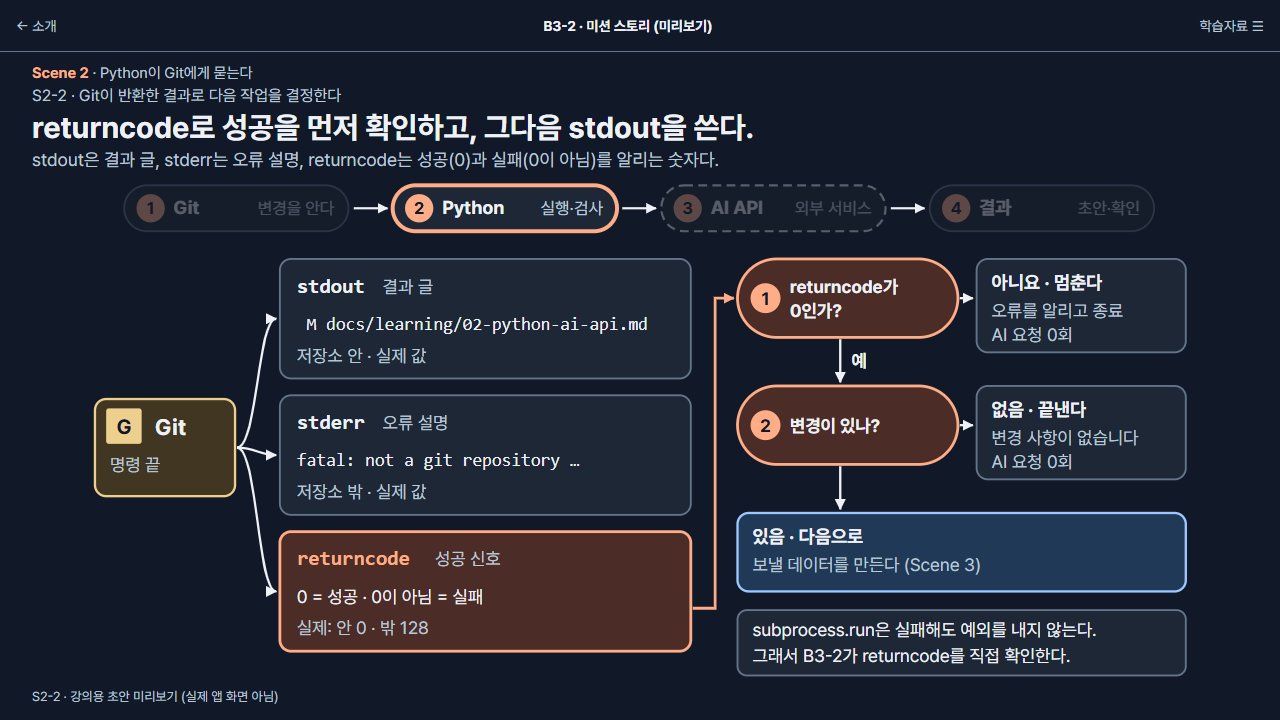
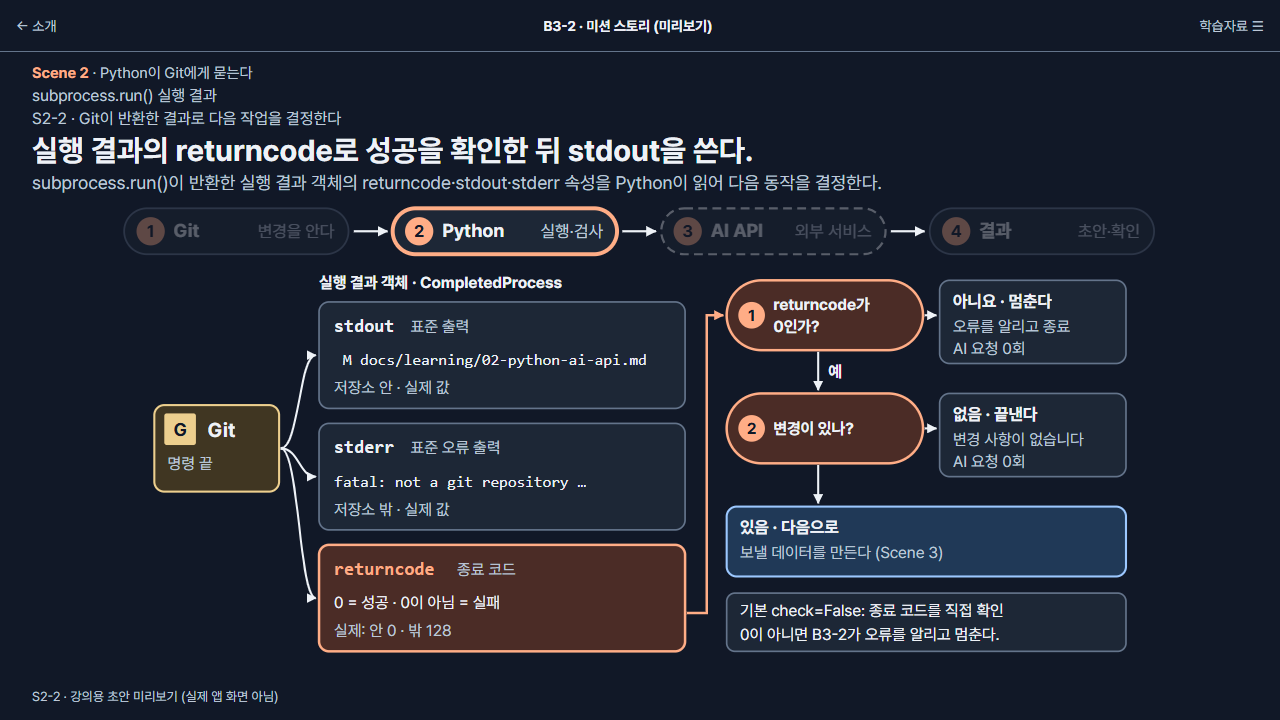
feat(b32): clarify subprocess lessons and add upper slide navigation

Changed region(s): [[0.0, 0.1222, 0.9375, 0.9472]]

diff --git a/playwright/b32-story-web.spec.ts b/playwright/b32-story-web.spec.ts
@@ -1,8 +1,8 @@
 import {test,expect} from '@playwright/test';
 import {mkdirSync,writeFileSync,readFileSync} from 'node:fs';
-const source=JSON.parse(readFileSync('content/mission-stories/main-m06/_tools/screens.json','utf8')) as {screens:{id:string;scene:string;desktop:string[];journey:string}[]};
+const source=JSON.parse(readFileSync('content/mission-stories/main-m06/_tools/screens.json','utf8')) as {screens:{id:string;scene:string;desktop:string[];journey:string;technology:string}[]};
 test.describe.configure({mode:'parallel'});
-const out='reports/b32-story-web';mkdirSync(out,{recursive:true});
+const out=process.env.B32_QA_OUTPUT??'reports/b32-story-web';mkdirSync(out,{recursive:true});
 const story='/missions/main-M06/story';
 for(const [width,height] of [[1280,720],[1000,720],[360,800],[390,844]])for(const site of ['forest','indigo','paper','signal'])for(const os of ['light','dark'] as const)test(`${width} ${site} ${os}`,async({page})=>{
  test.setTimeout(120000);await page.setViewportSize({width,height});await page.emulateMedia({colorScheme:os,reducedMotion:'reduce'});
@@ -25,16 +25,36 @@ for(const [width,height] of [[1280,720],[1000,720],[360,800],[390,844]])for(cons
    await expect(page.locator('.b32-journey svg')).toHaveAttribute('data-state',screen.journey);
    expect(await page.locator('.b32-journey').evaluate(el=>el.getBoundingClientRect().height)).toBeLessThanOrEqual(50);
    expect(await page.evaluate(()=>document.documentElement.scrollWidth<=innerWidth)).toBe(true);
-   const box=await figure.boundingBox();metrics.push({theme,id:screen.id,...box});
-   if(width>=900)expect(await page.locator('.b32-controls').evaluate(el=>el.getBoundingClientRect().bottom)).toBeLessThanOrEqual(height);
+   await page.evaluate(()=>document.fonts.ready);
+   await expect(page.locator('.b32-technology')).toHaveText(screen.technology);
+   const top=page.getByRole('navigation',{name:'슬라이드 상단 탐색'}),bottom=page.getByRole('navigation',{name:'B3-2 강의 조작'});
+   await expect(top.getByLabel('현재 슬라이드')).toHaveText(`${index+1} / 8`);
+   for(const nav of [top,bottom]){
+    await expect(nav.getByRole('button',{name:'이전',exact:true})).toBeEnabled({enabled:index>0});
+    await expect(nav.getByRole('button',{name:'다음',exact:true})).toBeEnabled({enabled:index<7});
+    for(const button of await nav.getByRole('button').all())expect((await button.boundingBox())!.height).toBeGreaterThanOrEqual(44);
+   }
+   const minPx=await figure.evaluate(svg=>{
+    const scale=svg.getBoundingClientRect().width/(svg as SVGSVGElement).viewBox.baseVal.width;
+    const visible=(element:Element)=>{for(let node:Element|null=element;node&&node!==svg;node=node.parentElement)if(getComputedStyle(node).display==='none')return false;return true;};
+    return Math.min(...[...svg.querySelectorAll('text')].filter(text=>text.getComputedTextLength()>0&&visible(text)).map(text=>Number(text.getAttribute('font-size'))*scale));
+   });
+   expect(minPx).toBeGreaterThanOrEqual(14);
+   const box=await figure.boundingBox();metrics.push({theme,id:screen.id,minPx,...box});
+   if(width>=900)expect(await bottom.evaluate(el=>el.getBoundingClientRect().bottom)).toBeLessThanOrEqual(height);
    if(site==='forest'&&os==='light')await page.screenshot({path:`${out}/${width}-${theme}-${screen.id}.png`,fullPage:width<900});
    if(index===6){await page.getByText('실제 COMMIT·PR 출력 전문',{exact:true}).click();const blocks=page.locator('.b32-review details[open] pre');await expect(blocks).toHaveCount(2);await expect(blocks.first()).toContainText('docs/learning/02-python-ai-api.md 파일 끝에 실습 메모를 추가하여');await expect(blocks.last()).toContainText('## How to Test');await page.getByText('실제 COMMIT·PR 출력 전문',{exact:true}).click();}
   }
   await page.reload();await expect(page.locator('.mission-presentation')).toHaveAttribute('data-presentation-theme',theme);
  }
  await page.getByLabel('Scene 선택',{exact:true}).selectOption('2');await expect(page.locator('.b32-lesson')).toHaveAttribute('data-screen','S2-1');
- await page.getByRole('button',{name:'다음',exact:true}).click();await expect(page.locator('.b32-lesson')).toHaveAttribute('data-screen','S2-2');await page.keyboard.press('ArrowLeft');await expect(page.locator('.b32-lesson')).toHaveAttribute('data-screen','S2-1');
- await page.getByText('발표자 노트 · 강사 스크립트',{exact:true}).click();await expect(page.locator('.b32-review details[open]')).toContainText('학습 질문:');
+ const top=page.getByRole('navigation',{name:'슬라이드 상단 탐색'}),bottom=page.getByRole('navigation',{name:'B3-2 강의 조작'});
+ await top.getByRole('button',{name:'다음',exact:true}).focus();await page.keyboard.press('Enter');await expect(page).toHaveURL(/scene=2&screen=2$/);
+ await bottom.getByRole('button',{name:'이전',exact:true}).click();await expect(page).toHaveURL(/scene=2&screen=1$/);
+ await bottom.getByRole('button',{name:'다음',exact:true}).click();await expect(page).toHaveURL(/scene=2&screen=2$/);
+ await top.getByRole('button',{name:'이전',exact:true}).click();await expect(page).toHaveURL(/scene=2&screen=1$/);
+ await bottom.getByRole('button',{name:'다음',exact:true}).click();await expect(page.locator('.b32-lesson')).toHaveAttribute('data-screen','S2-2');await expect(page.locator('#b32-message')).toBeFocused();await page.keyboard.press('ArrowLeft');await expect(page.locator('.b32-lesson')).toHaveAttribute('data-screen','S2-1');
+ await page.getByText('발표자 노트 · 강사 스크립트',{exact:true}).click();await expect(page.locator('.b32-review details[open]')).toContainText('실행할 프로그램과 명령을 Python 리스트로 전달한다');await expect(page.locator('.b32-review details[open]')).toContainText('shell=False');
  await page.getByText('관련 용어사전 · 학습가이드',{exact:true}).click();await page.locator('.b32-links a').first().click();await expect(page.locator('h1')).toBeVisible();await page.getByRole('link',{name:'← B3-2 스토리의 이전 화면으로 돌아가기'}).click();await expect(page.locator('.b32-lesson')).toHaveAttribute('data-screen','S2-1');
  await page.goto(`/#${story}?scene=4&screen=bad`);await expect(page.locator('.b32-lesson')).toHaveAttribute('data-screen','S4-1');await expect(page.getByRole('status')).toContainText('복구');
  expect(errors).toEqual([]);if(site==='forest'&&os==='light')writeFileSync(`${out}/${width}-metrics.json`,JSON.stringify(metrics,null,2));

diff --git a/src/b32Story/B32Story.tsx b/src/b32Story/B32Story.tsx
@@ -14,12 +14,12 @@ export default function B32Story(){
   const heading=useRef<HTMLHeadingElement>(null),[notice,setNotice]=useState('');
   useEffect(()=>{if(state.notice)setNotice(state.notice);if(!state.overview&&location.pathname+location.search!==state.canonical)navigate(state.canonical,{replace:true});},[state.notice,state.overview,state.canonical,location.pathname,location.search,navigate]);
   useEffect(()=>{document.title=state.overview?`B3-2 · ${intro.title}`:`${screen.id} · B3-2 미션 스토리`;if(!state.overview){heading.current?.focus({preventScroll:true});window.scrollTo(0,0);}return()=>{document.title='코디세이 기술용어 사전';};},[state.overview,screen.id]);
-  if(state.overview)return <><LearningFocusNav missionId="main-m06" active="story"/><MissionStoryOverview missionCode="B3-2" title={intro.title} question={intro.question} scenes={sceneLinks} orientation={<><ol><li>git status·git diff에서 무엇이 바뀌었는지 읽는다</li><li>Python이 subprocess로 Git을 실행하고 returncode로 다음 작업을 정한다는 것을 설명한다</li><li>AI에게 보내는 데이터와 API 요청·응답의 흐름을 말한다</li><li>AI 초안을 검증하고 사람이 확인한 뒤에 쓰는 이유를 설명한다</li></ol><p>변경을 읽는다 → Git을 실행한다 → AI에게 묻는다 → 초안을 확인한다</p><PresentationSurface><div className="b32-intro-figure"><B32Figure desktop={intro.desktop} mobile={intro.mobile}/></div></PresentationSurface><details><summary>발표자 노트 · 시작</summary><Markdown>{introNotes}</Markdown></details></>}/></>;
+  if(state.overview)return <><LearningFocusNav missionId="main-m06" active="story"/><MissionStoryOverview missionCode="B3-2" title={intro.title} question={intro.question} scenes={sceneLinks} orientation={<><p>{intro.draftDefinition}</p><ol><li>git status·git diff에서 무엇이 바뀌었는지 읽는다</li><li>Python이 subprocess로 Git을 실행하고 returncode로 다음 작업을 정한다는 것을 설명한다</li><li>AI에게 보내는 데이터와 API 요청·응답의 흐름을 말한다</li><li>AI 초안을 검증하고 사람이 확인한 뒤에 쓰는 이유를 설명한다</li></ol><p>변경을 읽는다 → Git을 실행한다 → AI에게 묻는다 → 초안을 확인한다</p><PresentationSurface><div className="b32-intro-figure"><B32Figure desktop={intro.desktop} mobile={intro.mobile}/></div></PresentationSurface><details><summary>발표자 노트 · 시작</summary><Markdown>{introNotes}</Markdown></details></>}/></>;
   const move=(index:number)=>{if(screens[index])navigate(screenHref(index));};
   return <PresentationSurface><div className="b32-story"><LearningFocusNav missionId="main-m06" active="story" storyHref={screenHref(state.index)}><Link to={storyPath}>강의 소개 보기</Link><PresentationThemeSelector/></LearningFocusNav>
     <article className="b32-lesson" data-screen={screen.id} aria-labelledby="b32-message" onKeyDown={event=>{if(event.altKey||event.ctrlKey||event.metaKey||(event.target as Element).closest('button,a,select,input,textarea,summary'))return;if(['ArrowRight','PageDown'].includes(event.key)){event.preventDefault();move(state.index+1);}if(['ArrowLeft','PageUp'].includes(event.key)){event.preventDefault();move(state.index-1);}}}>
       {notice&&<p role="status">{notice} <button onClick={()=>setNotice('')}>안내 닫기</button></p>}
-      <header className="b32-heading"><p>Scene {screen.scene} · {scene.title}</p><p>{screen.id} · {screen.title}</p><h1 id="b32-message" tabIndex={-1} ref={heading}>{screen.message}</h1><p className="b32-caption">{screen.caption}</p></header>
+      <header className="b32-heading"><div className="b32-heading-top"><div className="b32-context"><p>Scene {screen.scene} · {scene.title}</p><p className="b32-technology" aria-label="현재 학습 기술">{screen.technology}</p></div><nav className="b32-controls b32-top-controls" aria-label="슬라이드 상단 탐색"><button disabled={!state.index} onClick={()=>move(state.index-1)}>이전</button><span aria-label="현재 슬라이드">{state.index+1} / {screens.length}</span><button disabled={state.index===screens.length-1} onClick={()=>move(state.index+1)}>다음</button></nav></div><p>{screen.id} · {screen.title}</p><h1 id="b32-message" tabIndex={-1} ref={heading}>{screen.message}</h1><p className="b32-caption">{screen.caption}</p></header>
       <B32Figure journey desktop={['f0-journey-desktop.svg',screen.journey]} mobile={['f0-journey-mobile.svg',screen.journey]}/>
       <B32Figure desktop={screen.desktop} mobile={screen.mobile}/>
       <nav className="b32-controls" aria-label="B3-2 강의 조작"><label>Scene <select aria-label="Scene 선택" value={screen.scene} onChange={event=>move(screens.findIndex(item=>item.scene===event.target.value))}>{Object.entries(scenes).map(([id,item])=><option key={id} value={id}>{id} · {item.title}</option>)}</select></label><span>{state.index+1} / {screens.length}</span><button disabled={!state.index} onClick={()=>move(state.index-1)}>이전</button><button disabled={state.index===screens.length-1} onClick={()=>move(state.index+1)}>다음</button></nav>

diff --git a/src/b32Story/b32Story.css b/src/b32Story/b32Story.css
@@ -5,3 +5,6 @@
 .b32-controls{display:flex;flex-wrap:wrap;gap:8px;align-items:center;border-top:1px solid var(--presentation-line);padding-top:6px;font-size:14px}.b32-controls label{display:flex;gap:6px;align-items:center;flex:1;min-width:0}.b32-controls select{width:320px;max-width:100%;min-width:0}.b32-controls :is(button,select){min-height:44px;padding:8px 12px;border:1px solid var(--presentation-line);border-radius:8px;background:var(--presentation-panel);color:var(--presentation-ink);font:inherit;cursor:pointer}.b32-controls button:disabled{opacity:.45;cursor:default}.b32-story :is(a,button,select,summary):focus-visible{outline:3px solid var(--presentation-accent);outline-offset:2px}
 .b32-review{max-width:1200px;margin:auto;padding:12px 24px 24px}.b32-review details{margin:8px 0;padding:12px 16px;border:1px solid var(--presentation-line);border-radius:10px;background:var(--presentation-panel)}.b32-review summary{min-height:44px;cursor:pointer;align-content:center}.b32-review p,.b32-review li{line-height:1.8}.b32-review pre{white-space:pre-wrap;overflow-wrap:anywhere;background:var(--presentation-bg);color:var(--presentation-ink);padding:16px;border-radius:8px}.b32-links{display:flex;flex-wrap:wrap;gap:8px}.b32-links a{padding:10px;min-height:44px;box-sizing:border-box;color:var(--presentation-accent);overflow-wrap:anywhere}
 @media(max-width:899px){.b32-lesson{height:auto;min-height:calc(100dvh - 52px);padding:12px 16px 8px;gap:10px}.b32-heading h1{font-size:24px}.b32-heading .b32-caption{font-size:16px}.b32-figure{flex:0 0 auto;max-width:420px;align-self:center}.b32-journey{height:48px;min-height:0;flex:0 0 48px}.b32-controls label{flex-basis:100%}.b32-controls select{flex:1;width:auto}.b32-review{padding:8px 16px 24px}.b32-intro-figure{height:auto}}
+
+.b32-heading-top{display:flex;align-items:flex-start;justify-content:space-between;gap:12px}.b32-context{min-width:0}.b32-heading .b32-technology{font-size:14px;font-weight:700;color:var(--presentation-accent)}.b32-top-controls{flex:0 0 auto;flex-wrap:nowrap;border:0;padding:0;gap:6px}.b32-top-controls span{min-width:42px;text-align:center;font-variant-numeric:tabular-nums}.b32-top-controls button{min-width:44px}
+@media(max-width:899px){.b32-heading-top{flex-wrap:wrap;gap:6px}.b32-context{flex-basis:100%}.b32-top-controls{margin-left:auto}}

diff --git a/src/b32Story/content.test.ts b/src/b32Story/content.test.ts
@@ -1,6 +1,6 @@
 import {describe,it,expect} from 'vitest';
 import evidenceText from '../../content/mission-stories/main-m06/assets/evidence/real-output-2026-10-20.txt?raw';
-import {authoredScreen,readStoryState,screenHref,screens,guideLinks} from './content';
+import {authoredScreen,readStoryState,screenHref,screens,guideLinks,intro} from './content';
 import {learningForMission} from '../missionLearning';
 describe('B3-2 approved content integration',()=>{
  it('restores every direct screen and bounds malformed addresses',()=>{
@@ -14,6 +14,14 @@ describe('B3-2 approved content integration',()=>{
   const blocks=[...authoredScreen('S4-1').output.replace(/\r\n/g,'\n').matchAll(/```text\n([\s\S]*?)\n```/g)];
   expect(blocks).toHaveLength(2);for(const block of blocks)expect(evidence).toContain(block[1]);
   expect(authoredScreen('S4-1').notes).toContain('실행 당시 위치는 기록이 없어');
+ });
+ it('explains beginner terms and distinguishes execution results from Python decisions',()=>{
+  expect(intro.draftDefinition).toContain('AI가 먼저 작성한 검토용 글');
+  expect(screens[0].caption).toContain('실제 커밋이나 PR은 아직 만들어지지 않았다');
+  const first=authoredScreen('S2-1'),second=authoredScreen('S2-2');
+  for(const text of ['Python 리스트','실행할 프로그램','Git에 전달할 명령','생략','shell=False','운영체제를 통해 Git'])expect(first.explanation).toContain(text);
+  for(const text of ['CompletedProcess','객체의 속성','표준 오류 출력','항상 실패를 의미하지는 않습니다','성공했을 때 stdout'])expect(second.explanation).toContain(text);
+  expect(screens.map(screen=>screen.technology)).toEqual(['Git · AI 자동화','git status · git diff','argparse → subprocess.run()','subprocess.run() 실행 결과','Git 변경 수집 · 보안 검사','urllib.request · HTTP API','AI 응답 · 출력 형식 검증','결과 검증 · 사람의 최종 확인']);
  });
  it('uses only real B3-2 chapter links and keeps the concept map unavailable',()=>{
   for(const screen of screens){expect(authoredScreen(screen.id).notes).not.toBe('');for(const chapter of screen.guide)expect(guideLinks[chapter]).toMatch(/Codyssey_B3-2\/blob\/be21c4994a93bc943a6783ea380c50f61aa7c45b\/docs\/learning\//);}

diff --git a/content/mission-stories/main-m06/_tools/build_figures.py b/content/mission-stories/main-m06/_tools/build_figures.py
@@ -479,12 +479,12 @@ def f3(mobile):
 
 # ---------------------------------------------------------------- F4 argparse → subprocess → 운영체제 → Git
 F4_LABEL = ("python main.py commit을 입력했을 때의 흐름. 1 argparse가 명령줄 입력을 읽어 commit이면 커밋 메시지 초안, pr이면 PR 초안을 만들기로 정한다. "
-            "2 subprocess.run이 ['git', 'diff', …] 같은 목록을 그대로 넘긴다. 셸을 거치지 않는다. 3 운영체제가 git 프로그램을 새 프로세스로 실행한다. "
+            "2 subprocess.run에는 실행할 프로그램과 명령을 Python 리스트로 전달한다. git은 실행할 프로그램, diff는 Git에 전달할 명령이다. …는 예시의 인수 생략 표시다. 셸을 거치지 않고 운영체제를 통해 Git을 실행한다(shell=False). 3 운영체제가 git 프로그램을 새 프로세스로 실행한다. "
             "4 Git이 저장소를 읽고 결과를 돌려준다. 강조 이름표: 여기서 commit은 만들 초안의 종류이며 git commit을 실행하지 않는다. "
             "아래 띠: 실제로 실행하는 Git 명령은 rev-parse, branch, status 두 번, diff, diff --cached의 여섯 번이고 commit·push는 없다.")
 F4_BOXES = [
     ("p", "argparse", ["명령줄 입력을 읽는다", "commit → 커밋 메시지 초안", "pr → PR 초안"]),
-    ("p", "subprocess.run", ['["git", "diff", …]', "목록 그대로 넘긴다", "셸을 거치지 않는다"]),
+    ("p", "subprocess.run()", ['["git", "diff", …]', "git: 실행할 프로그램", "diff: Git에 전달할 명령", "Python 리스트로 전달", "셸 없이 운영체제로 실행"]),
     ("n", "운영체제", ["git 프로그램을", "새 프로세스로 실행", "(Windows · macOS)"]),
     ("g", "Git", ["저장소를 읽고", "결과를 돌려준다", "→ 다음 화면"]),
 ]
@@ -504,7 +504,7 @@ def f4(mobile):
             s.num(i + 1, x + 30, 158, 15)
             s.text(x + 56, 166, head, 22, "ink b mono" if "." in head else "ink b")
             for j, t in enumerate(lines):
-                s.text(x + 18, 214 + j * 34, t, 19, "ink mono" if t.startswith("[") else "muted")
+                s.text(x + 18, 198 + j * 24, t, 19, "ink mono" if t.startswith("[") else "muted")
             if i < 3:
                 s.path(f"M{x + w + 2} 224H{x + w + gap - 2}", "ln", "a")
         s.rect(16, 346, 600, 56, "box-acc", 10)
@@ -514,51 +514,53 @@ def f4(mobile):
         s.text(36, 449, "실제로 실행하는 Git 명령 6번: rev-parse · branch · status ×2 · diff · diff --cached", 19, "ink")
         s.text(36, 474, "변경을 기록하거나(commit) 보내는(push) 명령은 없다.", 19, "muted")
     else:
-        s = Svg(360, 760, ("main",), F4_LABEL, title)
+        s = Svg(360, 808, ("main",), F4_LABEL, title)
         s.rect(4, 8, 352, 48, "box-term", 10)
         s.text(18, 39, "> python main.py commit", 18, "ink mono b")
         y = 76
         for i, (k, head, lines) in enumerate(F4_BOXES):
-            s.rect(4, y, 352, 116, {"p": "box-p", "g": "box-g", "n": "box"}[k], 12)
+            box_height = 116 + max(0, len(lines) - 3) * 24
+            s.rect(4, y, 352, box_height, {"p": "box-p", "g": "box-g", "n": "box"}[k], 12)
             s.num(i + 1, 28, y + 26, 13)
             s.text(50, y + 33, head, 19, "ink b mono" if "." in head else "ink b")
             for j, t in enumerate(lines):
                 s.text(18, y + 62 + j * 24, t, 16, "ink mono" if t.startswith("[") else "muted")
             if i < 3:
-                s.path(f"M180 {y + 118}V{y + 132}", "ln", "a")
-            y += 134
-        s.rect(4, 618, 352, 62, "box-acc", 10)
-        s.lines(18, 643, ["commit은 초안의 종류다", "git commit을 실행하지 않는다"], 17, 24, "ink b")
-        s.lines(16, 708, ["실행하는 Git 명령 6번 (commit·push 없음)", "rev-parse · branch · status ×2 · diff ×2"], 16, 26, "muted")
+                s.path(f"M180 {y + box_height + 2}V{y + box_height + 16}", "ln", "a")
+            y += box_height + 18
+        s.rect(4, 666, 352, 62, "box-acc", 10)
+        s.lines(18, 691, ["commit은 초안의 종류다", "git commit을 실행하지 않는다"], 17, 24, "ink b")
+        s.lines(16, 756, ["실행하는 Git 명령 6번 (commit·push 없음)", "rev-parse · branch · status ×2 · diff ×2"], 16, 26, "muted")
     return s
 
 
 # ---------------------------------------------------------------- F5 stdout · stderr · returncode
-F5_LABEL = ("Git 명령이 끝나면 Python은 세 가지를 받는다. stdout은 결과 글(저장소 안에서 실제 값 ' M docs/learning/02-python-ai-api.md'), "
-            "stderr는 오류 설명(저장소 밖에서 실제 값 'fatal: not a git repository …'), returncode는 성공 신호다(0이면 성공, 0이 아니면 실패. 실제 값: 저장소 안 0, 밖 128). "
-            "오른쪽 흐름: ① returncode가 0인가? 아니요면 오류를 알리고 멈추며 AI 요청은 0회다. 예면 ② git status에 변경이 있나? 없으면 '변경 사항이 없습니다'를 출력하고 "
-            "AI 요청은 0회다. 있으면 보낼 데이터를 만든다(Scene 3). 아래: subprocess.run은 실패해도 예외를 내지 않으므로 B3-2가 returncode를 직접 확인한다.")
+F5_LABEL = ("subprocess.run()을 실행하면 CompletedProcess 실행 결과 객체가 반환된다. stdout(표준 출력), stderr(표준 오류 출력), returncode(종료 코드)는 이 객체의 속성이다. "
+            "stdout의 실제 값은 저장소 안에서 ' M docs/learning/02-python-ai-api.md', stderr의 실제 값은 저장소 밖에서 'fatal: not a git repository …'다. returncode는 안 0, 밖 128이다. "
+            "Python의 처리 로직: returncode가 0인지 먼저 검사한다. 0이 아니면 오류를 알리고 멈춘다. 성공하면 stdout을 읽어 변경 여부를 판단한다. 변경이 없으면 종료, 있으면 다음 Scene의 데이터를 만든다. "
+            "stderr의 내용만으로 실패를 판단하지 않는다. 기본 check=False에서는 0이 아닌 종료 코드에 대해 자동으로 예외를 내지 않으므로 B3-2가 직접 검사한다.")
 F5_CARDS = [
-    ("stdout", "결과 글", " M docs/learning/02-python-ai-api.md", "저장소 안 · 실제 값"),
-    ("stderr", "오류 설명", "fatal: not a git repository …", "저장소 밖 · 실제 값"),
-    ("returncode", "성공 신호", "0 = 성공 · 0이 아님 = 실패", "실제: 안 0 · 밖 128"),
+    ("stdout", "표준 출력", " M docs/learning/02-python-ai-api.md", "저장소 안 · 실제 값"),
+    ("stderr", "표준 오류 출력", "fatal: not a git repository …", "저장소 밖 · 실제 값"),
+    ("returncode", "종료 코드", "0 = 성공 · 0이 아님 = 실패", "실제: 안 0 · 밖 128"),
 ]
 
 
 def f5(mobile):
-    title = "Git이 돌려준 세 가지와 다음 작업"
+    title = "subprocess.run() 실행 결과와 Python의 처리 로직"
     if not mobile:
-        s = Svg(1200, 470, ("main",), F5_LABEL, title)
+        s = Svg(1200, 500, ("main",), F5_LABEL, title)
         node(s, 16, 166, 150, 104, "g", "Git", ["명령 끝"])
+        s.text(214, 25, "실행 결과 객체 · CompletedProcess", 19, "ink b")
         for i, (name, sub, val, note) in enumerate(F5_CARDS):
-            y = 16 + i * 146
+            y = 42 + i * 146
             s.rect(214, y, 440, 128, "box-acc" if name == "returncode" else "box", 12)
             s.text(232, y + 36, name, 22, "acc mono" if name == "returncode" else "ink mono b")
             s.text(232 + (148 if name == "returncode" else 92), y + 36, sub, 19, "muted")
             s.text(232, y + 76, val, 19, "ink" if name == "returncode" else "ink mono", "start")
             s.text(232, y + 110, note, 19, "muted")
             s.path(f"M168 218C190 218 190 {y + 64} 210 {y + 64}", "ln", "a")
-        s.path("M656 390H680V58H700", "ln-acc", "a-acc")
+        s.path("M656 416H680V58H700", "ln-acc", "a-acc")
         q = [("1", ["returncode가", "0인가?"], 704, 16), ("2", ["변경이 있나?"], 704, 152)]
         for n, t, x, y in q:
             s.rect(x, y, 236, 84, "box-acc", 42)
@@ -578,10 +580,12 @@ def f5(mobile):
         s.text(826, 132, "예", 19, "ink b")
         s.path("M814 238V284", "ln", "a")
         s.rect(704, 392, 480, 70, "box", 10)
-        s.lines(720, 420, ["subprocess.run은 실패해도 예외를 내지 않는다.", "그래서 B3-2가 returncode를 직접 확인한다."], 19, 28, "ink")
+        s.lines(720, 420, ["기본 check=False: 종료 코드를 직접 확인", "0이 아니면 B3-2가 오류를 알리고 멈춘다."], 19, 28, "ink")
     else:
         s = Svg(360, 860, ("main",), F5_LABEL, title)
-        node(s, 4, 8, 352, 70, "g", "Git 명령이 끝나면", [], 16, 19, bsize=14)
+        s.rect(4, 8, 352, 70, "box-p", 12)
+        s.text(18, 37, "subprocess.run() 반환값", 19, "ink b")
+        s.text(18, 63, "실행 결과 객체의 세 속성", 16, "muted")
         for i, (name, sub, val, note) in enumerate(F5_CARDS):
             y = 96 + i * 120
             s.rect(4, y, 352, 108, "box-acc" if name == "returncode" else "box", 12)
@@ -603,7 +607,7 @@ def f5(mobile):
                 s.path(f"M60 {y + 94}V{y + 124}", "ln", "a")
                 s.text(74, y + 116, "예" if "returncode" in head else "있음", 16, "ink b")
             y += 128
-        s.lines(16, y + 18, ["subprocess.run은 실패해도 예외를 내지 않는다.", "B3-2가 returncode를 직접 확인한다."], 16, 24, "ink")
+        s.lines(16, y + 18, ["기본 check=False: 종료 코드를 직접 확인", "0이 아니면 B3-2가 오류를 알리고 멈춘다."], 16, 24, "ink")
         s.h = y + 56
     return s
 

diff --git a/content/mission-stories/main-m06/storyboard-v0.1.md b/content/mission-stories/main-m06/storyboard-v0.1.md
@@ -34,6 +34,7 @@
 | --- | --- |
 | 미션 코드·강의 제목 | B3-2 · Git의 변경 내용을 AI가 어떻게 설명할까? |
 | 핵심 질문 | 내가 고친 내용을 AI가 설명하려면, 무엇이 어디로 전달되어야 할까? |
+| 초안 안내 | 초안은 AI가 먼저 작성한 검토용 글이다. 실제 커밋이나 PR은 아직 만들어지지 않았다. |
 | 학습 목표 | ① `git status`·`git diff`에서 무엇이 바뀌었는지 읽는다 ② Python이 subprocess로 Git을 실행하고 returncode로 다음 작업을 정한다는 것을 설명한다 ③ AI에게 보내는 데이터와 API 요청·응답의 흐름을 말한다 ④ AI 초안을 검증하고 사람이 확인한 뒤에 쓰는 이유를 설명한다 |
 | 강의 흐름 | 변경을 읽는다 → Git을 실행한다 → AI에게 묻는다 → 초안을 확인한다 |
 | 펼침 그림 | F1 전체 동작 구조도 `assets/f1-overview-desktop.svg` / `-mobile.svg` 상태 `all` |
@@ -54,7 +55,8 @@
 
 ## 화면 구성 공통 (웹 통합 시 기준)
 
-- **강의 화면(1280×720 이상)**: 위에서부터 Scene 이름 → 화면 번호·제목 → 핵심 메시지(가장 큰 글자) → 화면 설명 1줄 → **위치 띠** → 핵심 시각자료 1개. 미리보기 [preview/](preview/)의 `pc-*.png`가 이 배치다.
+- **강의 화면(1280×720 이상)**: 위에서부터 Scene 이름·학습 기술 + 상단 이전/번호/다음 → 화면 번호·제목 → 핵심 메시지(가장 큰 글자) → 화면 설명 1줄 → **위치 띠** → 핵심 시각자료 1개. 미리보기 [preview/](preview/)의 `pc-*.png`가 이 배치다.
+- **상단 탐색**: 공통 GNB 아래의 B3-2 슬라이드 콘텐츠 안에 이전·현재 번호·다음을 둔다. PC는 우측 상단, 모바일은 기술 이름 아래 줄로 배치한다. 기존 하단 탐색을 유지하며 같은 화면 주소를 쓴다. 학습 기술 이름은 현재 배우는 도구·동작, F0는 전체 흐름에서의 Scene 위치를 나타낸다.
 - **위치 띠** `assets/f0-journey-desktop.svg` / `-mobile.svg`, 상태 `s1`~`s4`: F1 구조도의 네 역할을 한 줄로 줄인 것이다. 현재 Scene 칸만 주황 테두리, 나머지는 흐리게. AI API 칸만 점선 테두리(외부). 인트로에는 띠 대신 F1 전체를 쓴다. F1에도 같은 상태 `s1`~`s4`가 있어, 웹에서 "전체 그림에서 위치 보기"로 펼칠 수 있다.
 - **경계**: 내 컴퓨터(로컬)는 실선 영역, 외부 서비스는 점선 영역. 이 약속은 F1·F7과 위치 띠에서 같다.
 - **역할 표시**: Git = 네모 G(금색), Python = 동그라미 Py(파랑), AI API = 마름모 AI(점선 상자), 결과 = 둥근 칸 "초안"(초록). 강조는 주황 굵은 테두리 + 글자 이름표. 색만으로 구분하지 않는다.
@@ -75,9 +77,10 @@
 | 화면 | |
 | --- | --- |
 | 제목 | 왜 변경 내용을 AI에게 설명시키려 할까? |
+| 학습 기술 | Git · AI 자동화 |
 | 학습 질문 | 변경 설명을 직접 쓸 때 무엇이 어려울까? |
 | 핵심 메시지 | AI가 초안을 쓰고, 사람은 확인하고 고친다. |
-| 화면 설명 | 직접 쓰려면 바뀐 줄을 다시 읽고 문장을 만들어야 한다. B3-2는 그 첫 초안을 AI에게 맡긴다. |
+| 화면 설명 | 초안은 AI가 먼저 작성한 검토용 글이다. 실제 커밋이나 PR은 아직 만들어지지 않았다. |
 | 핵심 시각자료 | F2 `assets/f2-why-desktop.svg` (모바일 `-mobile.svg`) · 위치 띠 `s1` |
 | 대체텍스트 | 두 가지 작성 방식 비교. 왼쪽 '직접 쓸 때'는 1 바뀐 줄을 다시 읽고 2 무엇을 왜 바꿨는지 정리해 3 짧은 문장으로 쓴다. 흔한 결과 예(보충)는 '수정' 한 단어로, 무엇을 고쳤는지 알 수 없고 B3-2 검증기도 이 제목을 거절한다. 오른쪽 'B3-2를 쓸 때'는 1 Git이 바뀐 줄을 알려 주고 2 AI가 초안을 쓰고 3 사람이 확인하고 고친다(강조). 실제 B3-2 출력 제목은 '학습 문서에 실습 메모 추가: AI 생성 커밋 메시지 검토 필요'로, 무엇이 바뀌었는지 드러난다. |
 | 근거 | 오른쪽 제목 `[실제 실행]`. 왼쪽 "수정"은 `[보충]` 흔한 예이며, `validators.py`가 `수정`·`변경`·`update`·`fix`·`changes`를 제목으로 거절하는 것은 `[구현]`(`evidence/validator-demo.txt`에서 실행 확인) |
@@ -103,6 +106,7 @@
 | 화면 | |
 | --- | --- |
 | 제목 | Git은 무엇이 변경됐는지 알고 있다 |
+| 학습 기술 | git status · git diff |
 | 학습 질문 | AI보다 먼저, 무엇이 바뀌었는지 아는 것은 누구일까? |
 | 핵심 메시지 | Git은 내 컴퓨터의 저장소에서 바뀐 줄을 보여 준다. |
 | 화면 설명 | git status는 어떤 파일이, git diff는 어떤 줄이 바뀌었는지 알려 준다. GitHub가 아니라 로컬 저장소를 읽는다. |
@@ -139,22 +143,22 @@
 | 화면 | |
 | --- | --- |
 | 제목 | Python은 Git을 직접 실행할 수 있다 |
+| 학습 기술 | argparse → subprocess.run() |
 | 학습 질문 | python main.py commit을 입력하면 Git은 누가 실행할까? |
 | 핵심 메시지 | Python은 subprocess로 Git 프로그램을 직접 실행한다. |
-| 화면 설명 | argparse가 무엇을 만들지 읽고, subprocess가 셸 없이 Git을 실행한다. 여기서 commit은 git commit이 아니다. |
+| 화면 설명 | argparse는 초안 종류를 읽는다. subprocess.run()은 셸을 거치지 않고 운영체제를 통해 Git을 실행한다. |
 | 핵심 시각자료 | F4 `assets/f4-subprocess-desktop.svg` (모바일 `-mobile.svg`) · 위치 띠 `s2` |
-| 대체텍스트 | python main.py commit을 입력했을 때의 흐름. 1 argparse가 명령줄 입력을 읽어 commit이면 커밋 메시지 초안, pr이면 PR 초안을 만들기로 정한다. 2 subprocess.run이 ["git", "diff", …] 같은 목록을 그대로 넘긴다. 셸을 거치지 않는다. 3 운영체제가 git 프로그램을 새 프로세스로 실행한다. 4 Git이 저장소를 읽고 결과를 돌려준다. 강조 이름표: 여기서 commit은 만들 초안의 종류이며 git commit을 실행하지 않는다. 아래 띠: 실제로 실행하는 Git 명령은 rev-parse, branch, status 두 번, diff, diff --cached의 여섯 번이고 commit·push는 없다. |
+| 대체텍스트 | python main.py commit을 입력했을 때의 흐름. 1 argparse가 명령줄 입력을 읽어 commit이면 커밋 메시지 초안, pr이면 PR 초안을 만들기로 정한다. 2 subprocess.run에는 실행할 프로그램과 명령을 Python 리스트로 전달한다. git은 실행할 프로그램, diff는 Git에 전달할 명령이다. …는 예시의 인수 생략 표시다. 셸을 거치지 않고 운영체제를 통해 Git을 실행한다(shell=False). 3 운영체제가 git 프로그램을 새 프로세스로 실행한다. 4 Git이 저장소를 읽고 결과를 돌려준다. 강조 이름표: 여기서 commit은 만들 초안의 종류이며 git commit을 실행하지 않는다. 아래 띠: 실제로 실행하는 Git 명령은 rev-parse, branch, status 두 번, diff, diff --cached의 여섯 번이고 commit·push는 없다. |
 | 근거 | `[구현]` `main.py` `build_parser()`(`choices=("commit", "pr")`), `git_collector.py` `_git()`(`subprocess.run(["git", "-c", "core.quotepath=false", *args], …, check=False)`)·`collect_changes()`의 Git 호출 6개 |
 
 **강사 스크립트**
-1. **오해부터 막는다.** "`python main.py commit`을 실행하면 커밋이 하나 생길까요?" 손을 들게 한다. → 아니다. 여기서 `commit`은 **어떤 초안을 만들지** 고르는 값이다. 커밋은 나중에 사람이 `git commit`으로 직접 한다.
-2. ① **argparse**는 B2-1에서 배운 것이다. 한 문장이면 된다: "명령줄에 적은 `commit`/`pr`을 읽어 무엇을 할지 정한다." `python main.py --help`로 `{commit,pr}`을 보여 줘도 좋다.
-3. ② **subprocess**가 오늘의 핵심이다. "Python 안에서 **다른 프로그램(git)** 을 실행하는 방법입니다." 우리가 터미널에 `git diff`를 치는 일을 프로그램이 대신 한다.
-4. **"셸 없이"의 뜻**: 터미널(셸)에 글자를 치면 셸이 그 글자를 해석해 명령을 만든다. B3-2는 `["git", "diff", …]`처럼 **이미 나눠진 목록**을 운영체제에 그대로 넘긴다. 그래서 파일 이름에 `;` 같은 특수 문자가 있어도 **다른 명령으로 해석되지 않는다**.
-5. ③ 운영체제가 git을 **새 프로세스**로 실행하고, ④ Git이 결과를 돌려준다. 그 결과를 어떻게 다루는지가 다음 화면이다.
-6. 아래 띠: 실행하는 Git 명령은 **상태를 읽는 것들뿐**이고 `commit`·`push`는 없다. `-c core.quotepath=false`는 한글 파일 이름을 그대로 보이게 하는 옵션이라는 것만 말한다(묻는 경우).
+1. **초안**은 AI가 먼저 작성한 검토용 글이다. 실제 커밋이나 PR은 아직 만들어지지 않았다. 여기서 `commit`은 커밋 메시지 초안, `pr`은 PR 초안의 종류를 고르는 값이다.
+2. ① **argparse**는 명령줄에 적은 `commit`/`pr`을 읽어 초안 종류를 정한다. `python main.py --help`로 `{commit,pr}`을 보여 줘도 좋다.
+3. ② **subprocess.run()**에는 실행할 프로그램과 명령을 Python 리스트로 전달한다. `["git", "diff"]`의 첫 항목 `"git"`은 실행할 프로그램, 두 번째 `"diff"`는 Git에 전달할 명령(하위 명령)이다. 그림의 `…`는 예시에서 다른 인수를 생략했다는 표시이며 실제 Python 코드의 인수로 전달하는 값이 아니다. 실제 코드는 `["git", "-c", "core.quotepath=false", *args]`를 사용한다.
+4. **터미널**은 입력·출력을 주고받는 화면이고 **셸**은 명령을 해석하는 프로그램이다. 처음 `python main.py commit`을 입력할 때는 터미널에서 셸을 사용할 수 있지만, 실행된 Python이 Git을 부르는 이 단계에서는 셸을 거치지 않고 운영체제를 통해 Git 실행 파일을 새 프로세스로 실행한다. `subprocess.run()`의 기본값은 `shell=False`이고 B3-2도 이 기본값을 사용한다. 셸의 파이프나 와일드카드 확장은 이 단계에서 적용되지 않는다.
+5. ③ 운영체제가 Git 실행 파일을 실행하고, ④ Git은 내 컴퓨터의 저장소를 읽어 결과를 돌려준다. 실제 호출은 저장소 확인·브랜치·상태 두 번·diff 두 번이다. `git commit`·`git push`는 실행하지 않는다.
 
-**학습자 접힘 설명** `python main.py commit`의 `commit`은 argparse가 읽는 값으로, "커밋 메시지 초안을 만들라"는 뜻입니다. `git commit`을 실행하지 않습니다. B3-2는 Python의 `subprocess.run()`으로 git 프로그램을 직접 실행합니다. 명령을 `["git", "diff", …]`처럼 목록으로 넘기고 셸을 거치지 않기 때문에, 파일 이름에 특수 문자가 있어도 다른 명령으로 해석되지 않습니다. 실행하는 Git 명령은 저장소 확인·브랜치·상태 두 번·diff 두 번의 여섯 번이고, 기록하거나 보내는 명령은 없습니다.
+**학습자 접힘 설명** 초안은 AI가 먼저 작성한 검토용 글입니다. 실제 커밋이나 PR은 아직 만들어지지 않았습니다. `python main.py commit`의 `commit`은 argparse가 읽는 초안 종류입니다. subprocess.run()에는 실행할 프로그램과 명령을 Python 리스트로 전달합니다. `["git", "diff"]`에서 `"git"`은 실행할 프로그램이고 `"diff"`는 Git에 전달할 명령입니다. 그림의 `…`는 다른 인수를 생략한 예시 표시입니다. 실제 코드는 Git 설정 인수도 포함합니다. 터미널은 입력·출력 화면, 셸은 명령 해석 프로그램, 운영체제는 프로그램 실행을 관리하며 Git 실행 파일은 저장소를 읽는 프로그램입니다. Python은 기본 `shell=False`로 셸을 거치지 않고 운영체제를 통해 Git을 실행합니다. 커밋과 PR은 초안을 검토한 사람이 직접 만듭니다.
 
 **이해 확인** "`python main.py commit`을 실행한 뒤 `git log`를 보면 새 커밋이 있을까요?" → *아니요. `commit`은 만들 초안의 종류이고, B3-2는 Git 상태를 읽기만 합니다. 커밋은 사람이 직접 합니다.*
 
@@ -168,24 +172,22 @@
 | 화면 | |
 | --- | --- |
 | 제목 | Git이 반환한 결과로 다음 작업을 결정한다 |
+| 학습 기술 | subprocess.run() 실행 결과 |
 | 학습 질문 | Git 명령이 실패하면 Python은 어떻게 알까? |
-| 핵심 메시지 | returncode로 성공을 먼저 확인하고, 그다음 stdout을 쓴다. |
-| 화면 설명 | stdout은 결과 글, stderr는 오류 설명, returncode는 성공(0)과 실패(0이 아님)를 알리는 숫자다. |
+| 핵심 메시지 | 실행 결과의 returncode로 성공을 확인한 뒤 stdout을 쓴다. |
+| 화면 설명 | subprocess.run()이 반환한 실행 결과 객체의 returncode·stdout·stderr 속성을 Python이 읽어 다음 동작을 결정한다. |
 | 핵심 시각자료 | F5 `assets/f5-result-desktop.svg` (모바일 `-mobile.svg`) · 위치 띠 `s2` |
-| 대체텍스트 | Git 명령이 끝나면 Python은 세 가지를 받는다. stdout은 결과 글(저장소 안에서 실제 값 ' M docs/learning/02-python-ai-api.md'), stderr는 오류 설명(저장소 밖에서 실제 값 'fatal: not a git repository …'), returncode는 성공 신호다(0이면 성공, 0이 아니면 실패. 실제 값: 저장소 안 0, 밖 128). 오른쪽 흐름: ① returncode가 0인가? 아니요면 오류를 알리고 멈추며 AI 요청은 0회다. 예면 ② 변경이 있나? 없으면 '변경 사항이 없습니다'를 출력하고 AI 요청은 0회다. 있으면 보낼 데이터를 만든다(Scene 3). 아래: subprocess.run은 실패해도 예외를 내지 않으므로 B3-2가 returncode를 직접 확인한다. |
+| 대체텍스트 | subprocess.run()을 실행하면 CompletedProcess 실행 결과 객체가 반환된다. stdout(표준 출력), stderr(표준 오류 출력), returncode(종료 코드)는 이 객체의 속성이다. stdout의 실제 값은 저장소 안에서 ' M docs/learning/02-python-ai-api.md', stderr의 실제 값은 저장소 밖에서 'fatal: not a git repository …'다. returncode는 안 0, 밖 128이다. Python의 처리 로직: returncode가 0인지 먼저 검사한다. 0이 아니면 오류를 알리고 멈춘다. 성공하면 stdout을 읽어 변경 여부를 판단한다. 변경이 없으면 종료, 있으면 다음 Scene의 데이터를 만든다. stderr의 내용만으로 실패를 판단하지 않는다. 기본 check=False에서는 0이 아닌 종료 코드에 대해 자동으로 예외를 내지 않으므로 B3-2가 직접 검사한다. |
 | 근거 | `[재현]` `evidence/subprocess-results.txt`(0 / 128과 실제 stderr). `[구현]` `_git()`의 `if result.returncode: raise GitError(...)`, `main.py`의 `if not changes.has_changes: print("변경 사항이 없습니다.")`. 두 경우 모두 API 요청 0회는 `test_cli.py`·발표자 노트 시연으로 확인 |
 
 **강사 스크립트**
-1. "Git에게 일을 시켰는데 실패했다면, Python은 어떻게 알까요?"
-2. 왼쪽 세 칸을 짚는다. 프로그램을 실행하면 **세 가지**가 돌아온다.
-   - **stdout**: 결과 글. 정상일 때 ` M docs/…` 같은 내용.
-   - **stderr**: 오류 설명. 저장소가 아닌 폴더에서 실행하면 `fatal: not a git repository …`.
-   - **returncode**: 숫자 하나. **0이면 성공, 0이 아니면 실패**. 실제로 저장소 밖에서 128이 나왔다.
-3. 시연(발표자 노트 ②): 저장소 밖에서 실행해 `오류: fatal: not a git repository …`와 `AI API 요청 횟수: 0`을 보여 준다.
-4. **왜 returncode를 먼저 볼까?** "저장소 밖에서는 stdout이 **비어** 있습니다. 이걸 그대로 쓰면 '변경이 없네'라고 착각할 수 있어요." `subprocess.run`은 실패해도 **기본으로 예외를 내지 않는다**. 그래서 B3-2가 returncode를 직접 확인하고 `GitError`로 멈춘다.
-5. 오른쪽 흐름을 위에서 아래로 짚는다. 실패 → 멈춤, 변경 없음 → "변경 사항이 없습니다", 있음 → Scene 3. **앞의 두 경우 AI에게 아무것도 보내지 않는다**(요청 0회 = 비용 0).
+1. 이 화면은 Git을 실행한 `subprocess.run()`의 **실행 결과 객체**와 이를 읽는 **Python의 처리 로직**을 보여 준다. 반환값 `CompletedProcess`를 `result`라는 이름으로 받는다고 생각한다.
+2. 왼쪽 세 칸은 그 객체의 속성이다. **result.returncode**는 종료 코드, **result.stdout**은 표준 출력, **result.stderr**는 표준 오류 출력이다. B3-2는 `capture_output=True`, `text=True`로 출력 내용을 글로 받는다.
+3. 오른쪽은 Python의 판단이다. **returncode가 0인지 먼저 확인**하고, 0이 아니면 오류를 알리고 멈춘다. 성공하면 stdout을 읽어 변경이 있는지 판단한다. 변경이 없으면 "변경 사항이 없습니다."를 출력하고, 있으면 보낼 데이터를 만든다. 멈추거나 변경이 없는 경우 모두 AI 요청은 0회다.
+4. 저장소 밖에서 실행하면 returncode는 128, stdout은 빈 글, stderr에는 `fatal: not a git repository …`가 담긴다. stdout만 보면 실패를 변경 없음으로 착각할 수 있다.
+5. **stderr에 글이 있다고 항상 실패는 아니다.** 경고나 진행 메시지도 표준 오류 출력으로 나올 수 있으므로 종료 코드로 성공 여부를 판단한다. 기본 `check=False`에서는 종료 코드가 0이 아니어도 자동으로 예외를 내지 않으므로 B3-2가 직접 검사한다. 실행 파일을 찾지 못하는 등 실행 자체의 오류는 예외를 낼 수 있다는 점과 구분한다.
 
-**학습자 접힘 설명** subprocess로 실행한 프로그램은 결과 글(stdout), 오류 설명(stderr), 성공 여부를 알리는 숫자(returncode)를 돌려줍니다. returncode가 0이면 성공, 0이 아니면 실패입니다. `subprocess.run()`은 실패해도 기본으로 예외를 내지 않기 때문에, B3-2는 returncode를 직접 확인해 실패하면 오류를 알리고 멈춥니다. 성공했지만 변경이 없으면 "변경 사항이 없습니다."를 출력합니다. 두 경우 모두 AI API를 호출하지 않습니다.
+**학습자 접힘 설명** `subprocess.run()`은 실행이 끝나면 `CompletedProcess`라는 실행 결과 객체를 반환합니다. `returncode`, `stdout`, `stderr`는 이 객체의 속성입니다. B3-2에서는 `capture_output=True`로 표준 출력(stdout)과 표준 오류 출력(stderr)을 모으고 `text=True`로 글을 받습니다. **stderr는 표준 오류 출력이며 항상 실패를 의미하지는 않습니다.** 경고나 진행 메시지도 담길 수 있습니다. Python은 먼저 returncode가 0인지 검사하고, 성공했을 때 stdout을 사용해 변경이 있는지 결정합니다. 0이 아니면 오류를 알리고 멈춥니다. 기본 `check=False`에서는 0이 아닌 종료 코드만으로 예외를 자동 발생시키지 않으므로 직접 검사합니다. 실행 파일을 찾지 못하는 등 실행 자체의 오류와는 구분합니다. 성공했지만 변경이 없으면 "변경 사항이 없습니다."를 출력하며 두 경우 모두 AI API를 호출하지 않습니다.
 
 **이해 확인** "저장소 밖에서는 stdout이 비어 있습니다. 이걸 '변경 없음'으로 처리하면 무엇이 문제일까요?" → *실패를 성공처럼 숨기게 됩니다. returncode(128)로 실패를 먼저 확인해야 합니다.*
 
@@ -202,6 +204,7 @@
 | 화면 | |
 | --- | --- |
 | 제목 | AI에게 어떤 데이터를 보낼까? |
+| 학습 기술 | Git 변경 수집 · 보안 검사 |
 | 학습 질문 | AI가 변경을 설명하려면 무엇을 받아야 할까? |
 | 핵심 메시지 | 바뀐 부분과 그 맥락만 모으고, 보내기 전에 검사한다. |
 | 화면 설명 | 브랜치·파일 이름·git add한 변경·아직 add하지 않은 변경을 모은다. 새 파일은 이름만 보낸다. |
@@ -234,6 +237,7 @@
 | 화면 | |
 | --- | --- |
 | 제목 | AI API는 어떻게 요청하고 응답할까? |
+| 학습 기술 | urllib.request · HTTP API |
 | 학습 질문 | 내 컴퓨터의 Python은 AI에게 어떻게 말을 걸까? |
 | 핵심 메시지 | Python은 HTTPS로 JSON 요청을 보내고, 응답 JSON에서 글만 꺼낸다. |
 | 화면 설명 | 요청에는 작성 규칙(system)과 검사한 Git 문맥(user)이 담긴다. API 키는 환경변수에서 읽어 헤더로만 보낸다. |
@@ -271,6 +275,7 @@
 | 화면 | |
 | --- | --- |
 | 제목 | AI는 어떤 결과물을 만들까? |
+| 학습 기술 | AI 응답 · 출력 형식 검증 |
 | 학습 질문 | 같은 변경에서 commit과 pr은 무엇을 다르게 만들까? |
 | 핵심 메시지 | commit은 한 줄 제목을, pr은 이유·내용·확인 방법을 만든다. |
 | 화면 설명 | 실제 실행에서 나온 두 초안이다. 둘 다 터미널에 출력될 뿐, 커밋이나 PR이 만들어지지 않는다. |
@@ -330,6 +335,7 @@ AI API 요청 횟수: 1
 | 화면 | |
 | --- | --- |
 | 제목 | AI가 작성한 설명을 그대로 믿어도 될까? |
+| 학습 기술 | 결과 검증 · 사람의 최종 확인 |
 | 학습 질문 | 검증을 통과한 초안이면 바로 써도 될까? |
 | 핵심 메시지 | 프로그램은 형식을 검사하고, 내용과 이유는 사람이 확인한다. |
 | 화면 설명 | AI는 무엇이 바뀌었는지는 읽지만, 왜 바꿨는지는 모를 수 있다. 커밋과 PR은 사람이 직접 만든다. |
